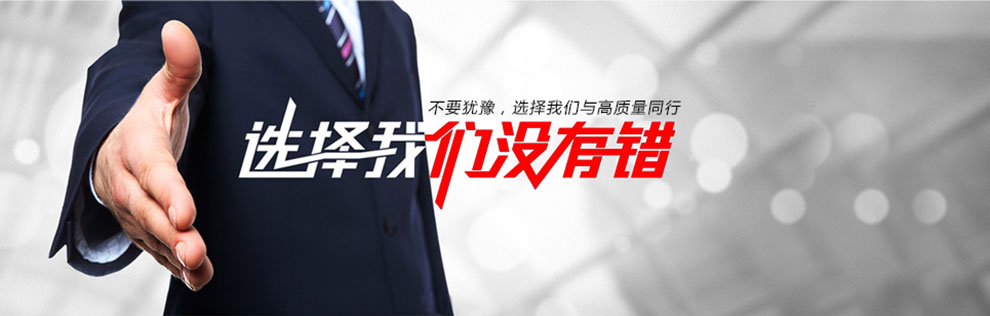
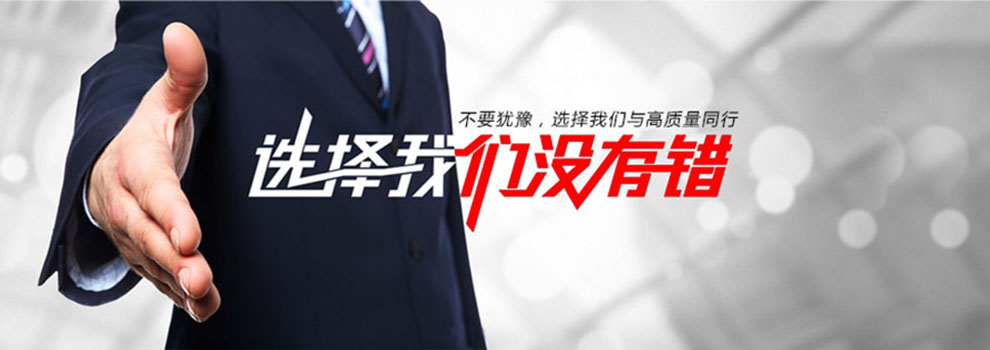
基本上全部完成幻灯片的调整，但是没有做到可以自由添加数量

diff --git a/web/public/component/slide/javascript/images/component.css b/web/public/component/slide/javascript/images/component.css
@@ -1,10 +1,11 @@
-.homepage-slider {
-	width: 900px;
+.slide-javascript-control {
+	width: 986px;
 	position: relative;
 	overflow: hidden;
+	/* border:1px solid #ff0000; */
 }
 
-.homepage-slider .tag {
+.slide-javascript-control .tag {
 	width: 81px;
 	height: 81px;
 	background: url(top-stories-tag.png) 0 0 no-repeat;
@@ -12,7 +13,12 @@
 	z-index: 1;
 }
 
-.homepage-slider .rounded-corners {
+.slide-javascript-control table tr td{
+	margin:0px;
+	padding:0px;
+}
+
+.slide-javascript-control .rounded-corners {
 	width: 900px;
 	height: 3px;
 	background: url(homepage-slider-rounded-corners.png) 0 0 no-repeat;
@@ -20,30 +26,7 @@
 	z-index: 2;
 }
 
-.homepage-slider .navigation {
-	padding: 16px 0;
-	margin: -9px 0 5px 400px;
-	overflow: hidden;
-}
-
-.homepage-slider .navigation a {
-	margin: 0 10px 0 0;
-	width: 10px;
-	height: 10px;
-	background: url(ico-bullet-8.png) 0 0 no-repeat;
-	display: block;
-	float: left;
-}
-
-.homepage-slider .navigation a:hover {
-	background-position: 0 -10px;
-}
-
-.homepage-slider .navigation .active {
-	background-position: 0 -10px;
-}
-
-.homepage-slider .btn-previous {
+.slide-javascript-control .btn-previous {
 	width: 450px;
 	height: 350px;
 	text-indent: 5000px;
@@ -51,12 +34,12 @@
 	z-index: 2;
 }
 
-.homepage-slider .btn-previous:hover {
+.slide-javascript-control .btn-previous:hover {
 	background: url(homepage-slider-btn-previous-bg.png) center left no-repeat;
 }
 
-.homepage-slider .btn-next {
-	margin: 0 0 0 450px;
+.slide-javascript-control .btn-next {
+	margin: 0 0 0 540px;
 	width: 450px;
 	height: 350px;
 	text-indent: 5000px;
@@ -64,26 +47,26 @@
 	z-index: 2;
 }
 
-.homepage-slider .btn-next:hover {
+.slide-javascript-control .btn-next:hover {
 	background: url(homepage-slider-btn-next-bg.png) center right no-repeat;
 }
 
-.homepage-slider-item {
-	width: 900px;
+.slide-javascript-control-item {
+	width: 986px;
 	height: 350px;
 	float: left;
 }
 
-.homepage-slider-item .background {
+.slide-javascript-control-item .background {
 	margin: 237px 0 0 0;
-	width: 900px;
+	width: 986px;
 	height: 83px;
-	background: url(top-stories-info-bg.png) 0 0 no-repeat;
+	background: url(top-stories-info-bg.png) 0 0 repeat-x;
 	position: absolute;
 	z-index: 1;
 }
 
-.homepage-slider-item .title {
+.slide-javascript-control-item .title {
 	margin: 237px 0 0 0;
 	padding: 13px 220px 0 16px;
 	width: 664px;
@@ -95,7 +78,7 @@
 	z-index: 2;
 }
 
-.homepage-slider-item .title i {
+.slide-javascript-control-item .title i {
 	height: 18px;
 	font-size: 16px;
 	font-weight: bold;
@@ -105,20 +88,43 @@
 	overflow: hidden;
 }
 
-.homepage-slider-item .title:hover i {
+.slide-javascript-control-item .title:hover i {
 	color: #00c6ff;
 	text-decoration: underline;
 }
 
-.homepage-slider-item .title u {
+.slide-javascript-control-item .title u {
 	height: 36px;
 	text-decoration: none;
 	display: block;
 	overflow: hidden;
 }
 
-.homepage-slider-image-shadow {
+.slide-javascript-control-shadow {
 	width: 900px;
 	height: 9px;
 	background: url(image-shadow-5.png) center 1px no-repeat;
+}
+
+.slide-javascript-control .navigation {
+	padding: 16px 0;
+	margin: -9px 0 5px 400px;
+	overflow: hidden;
+}
+
+.slide-javascript-control .navigation a {
+	margin: 0 10px 0 0;
+	width: 10px;
+	height: 10px;
+	background: url(ico-bullet-8.png) 0 0 no-repeat;
+	display: block;
+	float: left;
+}
+
+.slide-javascript-control .navigation a:hover {
+	background-position: 0 -10px;
+}
+
+.slide-javascript-control .navigation .active {
+	background-position: 0 -10px;
 }

diff --git a/web/public/component/slide/javascript/js/aktuals.js b/web/public/component/slide/javascript/js/aktuals.js
@@ -11,7 +11,7 @@ function scrollToElem(elem) {
 }
 
 function scrollRight() {
-	if (global_current_elem == 5) {
+	if (global_current_elem == 3) {
 		elem = 1;
 	}
 	else {
@@ -23,7 +23,7 @@ function scrollRight() {
 }
 
 function scrollLeft() {
-	if (global_current_elem == 1) {elem = 5;}
+	if (global_current_elem == 1) {elem = 3;}
 	else {elem = global_current_elem - 1;}
 	$('#aktuals_field').scrollTo('#aktuals'+elem, 1100, {easing:'easeInOutExpo', axis:'x' });
 	set_active_btn(elem);
@@ -45,13 +45,11 @@ function set_hover_off() {
 
 function set_active_btn(elem) {
 	
-	jQuery("#aktuals1_btn").removeClass("active");
-	jQuery("#aktuals2_btn").removeClass("active");
-	jQuery("#aktuals3_btn").removeClass("active");
-	jQuery("#aktuals4_btn").removeClass("active");
-	jQuery("#aktuals5_btn").removeClass("active");
+	$("#aktuals1_btn").removeClass("active");
+	$("#aktuals2_btn").removeClass("active");
+	$("#aktuals3_btn").removeClass("active");
 	
-	jQuery("#aktuals"+elem+"_btn").addClass("active");
+	$("#aktuals"+elem+"_btn").addClass("active");
 }
 
 function reset_interval() {

diff --git a/web/module/Web/src/Web/Controller/IndexController.php b/web/module/Web/src/Web/Controller/IndexController.php
@@ -27,9 +27,7 @@ class IndexController extends WebBaseController
     	$javascriptSlideViewModel	->setImageBasePath('theme/default/common/slide');
     	$javascriptSlideViewModel	->addSlideElement(1,'测试标题1','测试标题1的相关描述','1.jpg')
     								->addSlideElement(2,'测试标题2','测试标题2的相关描述','2.jpg')
-    								->addSlideElement(3,'测试标题3','测试标题3的相关描述','3.jpg')
-    								->addSlideElement(4,'测试标题4','测试标题4的相关描述','4.jpg')
-    								->addSlideElement(5,'测试标题5','测试标题4的相关描述','5.jpg');
+    								->addSlideElement(3,'测试标题3','测试标题3的相关描述','3.jpg');
     								
     	$javascriptSlideViewModel->componentRender();
     	

diff --git a/web/module/Cms/src/Cms/Component/Slide/Javascript/Content.php b/web/module/Cms/src/Cms/Component/Slide/Javascript/Content.php
@@ -14,6 +14,8 @@ class Content extends BaseComponent implements ComponentInterface{
 	
 	protected $showShadow = false;//显示幻灯片下面的阴影
 	
+	protected $showTag = false;//是否显示幻灯片左上角的图标
+	
 	protected $slideElementList = array();
 	
 	
@@ -32,8 +34,10 @@ class Content extends BaseComponent implements ComponentInterface{
 		return $this;
 	}
 	
-	
-	
+	public function setShowTag($status){
+		$this->setVariable('showTag', $status);
+		return $this;
+	}
 	
 	/**
 	 * 
